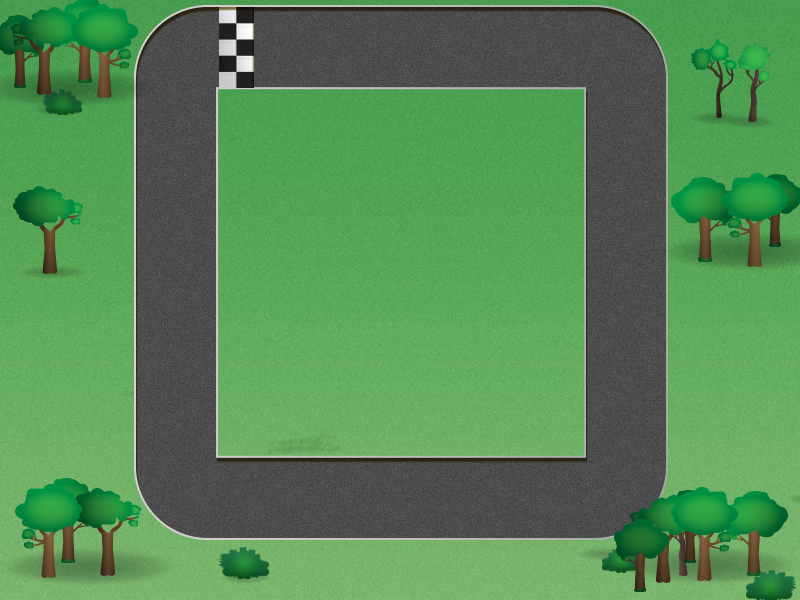
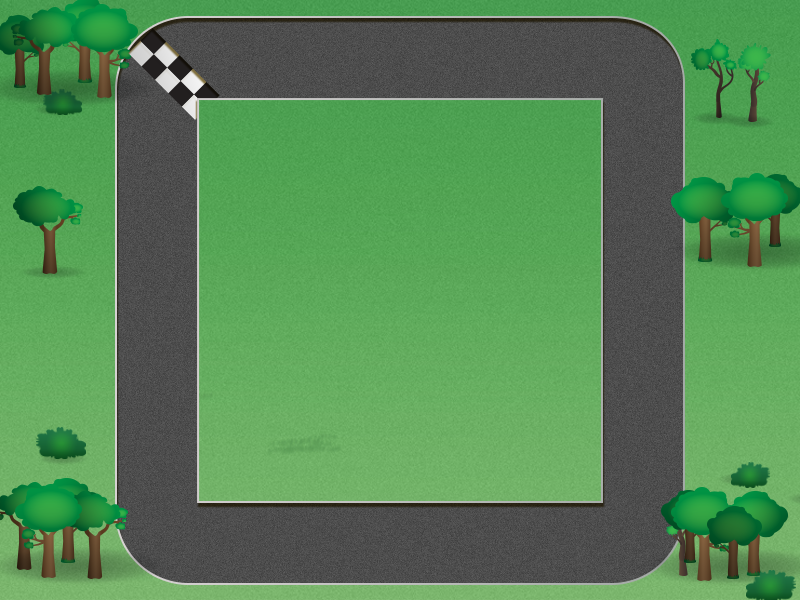
New settings for race track

diff --git a/public/src/js/app/consts/challengedata.js b/public/src/js/app/consts/challengedata.js
@@ -14,7 +14,7 @@ define([], function() {
 	ChallengeData.MESSAGES.push("Guide the car to bank, and then to the hospital!");
 	ChallengeData.MESSAGES.push("Make the bee visit both of the poppies!");
 	ChallengeData.MESSAGES.push("Get to the cheese!");
-	ChallengeData.MESSAGES.push("Drive the car around the track!");
+	ChallengeData.MESSAGES.push("Drive the car around the track by repeating\nthe 'turn 90 degree' and 'move forward'\ncommands. Click on '×1' to change how\nmany times it repeats!");
 	ChallengeData.MESSAGES.push("Write a program to draw a star shape!");
 	
 	ChallengeData.CHALLENGE_BG = 			[4, 2, 0, 7, 5, 11];
@@ -22,11 +22,12 @@ define([], function() {
 	ChallengeData.CHALLENGE_COLOR = 		[0, 0, 2, 0, 0, 2];
 	ChallengeData.CHALLENGE_STEP_LENGTH = 	[3, 2, 2, 2, 2, 2];
 	ChallengeData.CHALLENGE_GRID = 			[1, 1, 1, 1, 1, 0];
-	ChallengeData.CHALLENGE_PROG = 			[0, 0, 1, 2, 2, 3];
+	ChallengeData.CHALLENGE_PROG = 			[0, 0, 1, 2, 3, 3];
+	ChallengeData.ANGLE = 					[0, 0, 0, 0, 1, 0];
 	ChallengeData.CHALLENGE_ALLOW_PROG = 	[0, 0, 1, 1, 1, 1];
 	ChallengeData.CHALLENGE_TURTLE = 		[1, 2, 6, 7, 2, 8];
 	ChallengeData.CHALLENGE_DIAG = 			[1, 1, 1, 1, 1, 1];
-	ChallengeData.CHALLENGE_START_POS = 	[{'x':0.8, 'y':0.1}, {'x':0.8, 'y':0.2}, {'x':0.2, 'y':0.9}, {'x':0.05, 'y':0.8}, {'x':0.5, 'y':0.1}, {'x':0.5, 'y':0.5}];
+	ChallengeData.CHALLENGE_START_POS = 	[{'x':0.8, 'y':0.1}, {'x':0.8, 'y':0.2}, {'x':0.2, 'y':0.9}, {'x':0.05, 'y':0.8}, {'x':0.2, 'y':0.1}, {'x':0.5, 'y':0.5}];
 
 	ChallengeData.ORDERED = 				[false, true, false, false, true, false];
 
@@ -35,7 +36,7 @@ define([], function() {
 	ChallengeData.TARGETS.push ( [{'x':641, 'y':539}, 	{'x':280, 'y':300}] );
 	ChallengeData.TARGETS.push ( [{'x':520, 'y':63}, 	{'x':638, 'y':423}] );
 	ChallengeData.TARGETS.push ( [{'x':460, 'y':299}] );
-	ChallengeData.TARGETS.push ( [{'x':640, 'y':59}, 	{'x':640, 'y':300},		{'x':279, 'y':300},		{'x':279, 'y':540},		{'x':159, 'y':540}, 	{'x':159, 'y':300}, 	{'x':159, 'y':59}, 	{'x':280, 'y':59}] );
+	ChallengeData.TARGETS.push ( [{'x':640, 'y':59}, 	{'x':640, 'y':540},		{'x':159, 'y':540}, 	{'x':159, 'y':59}] );
 	ChallengeData.TARGETS.push ( [] );
 
 	ChallengeData.WELL_DONE_MESSAGE = "Well done, you've cracked it!";

diff --git a/public/src/js/app/consts/defaults.js b/public/src/js/app/consts/defaults.js
@@ -42,6 +42,7 @@ define(['app/consts/challengedata'], function(ChallengeData) {
 		settings.bg = 			ChallengeData.CHALLENGE_BG[i];
 		settings.screen = 		ChallengeData.CHALLENGE_SCREEN[i];
 		settings.color = 		ChallengeData.CHALLENGE_COLOR[i];
+		settings.angle =		ChallengeData.ANGLE[i];
 		settings.stepLength = 	ChallengeData.CHALLENGE_STEP_LENGTH[i];
 		settings.grid = 		ChallengeData.CHALLENGE_GRID[i];
 		settings.prog = 		ChallengeData.CHALLENGE_PROG[i];
